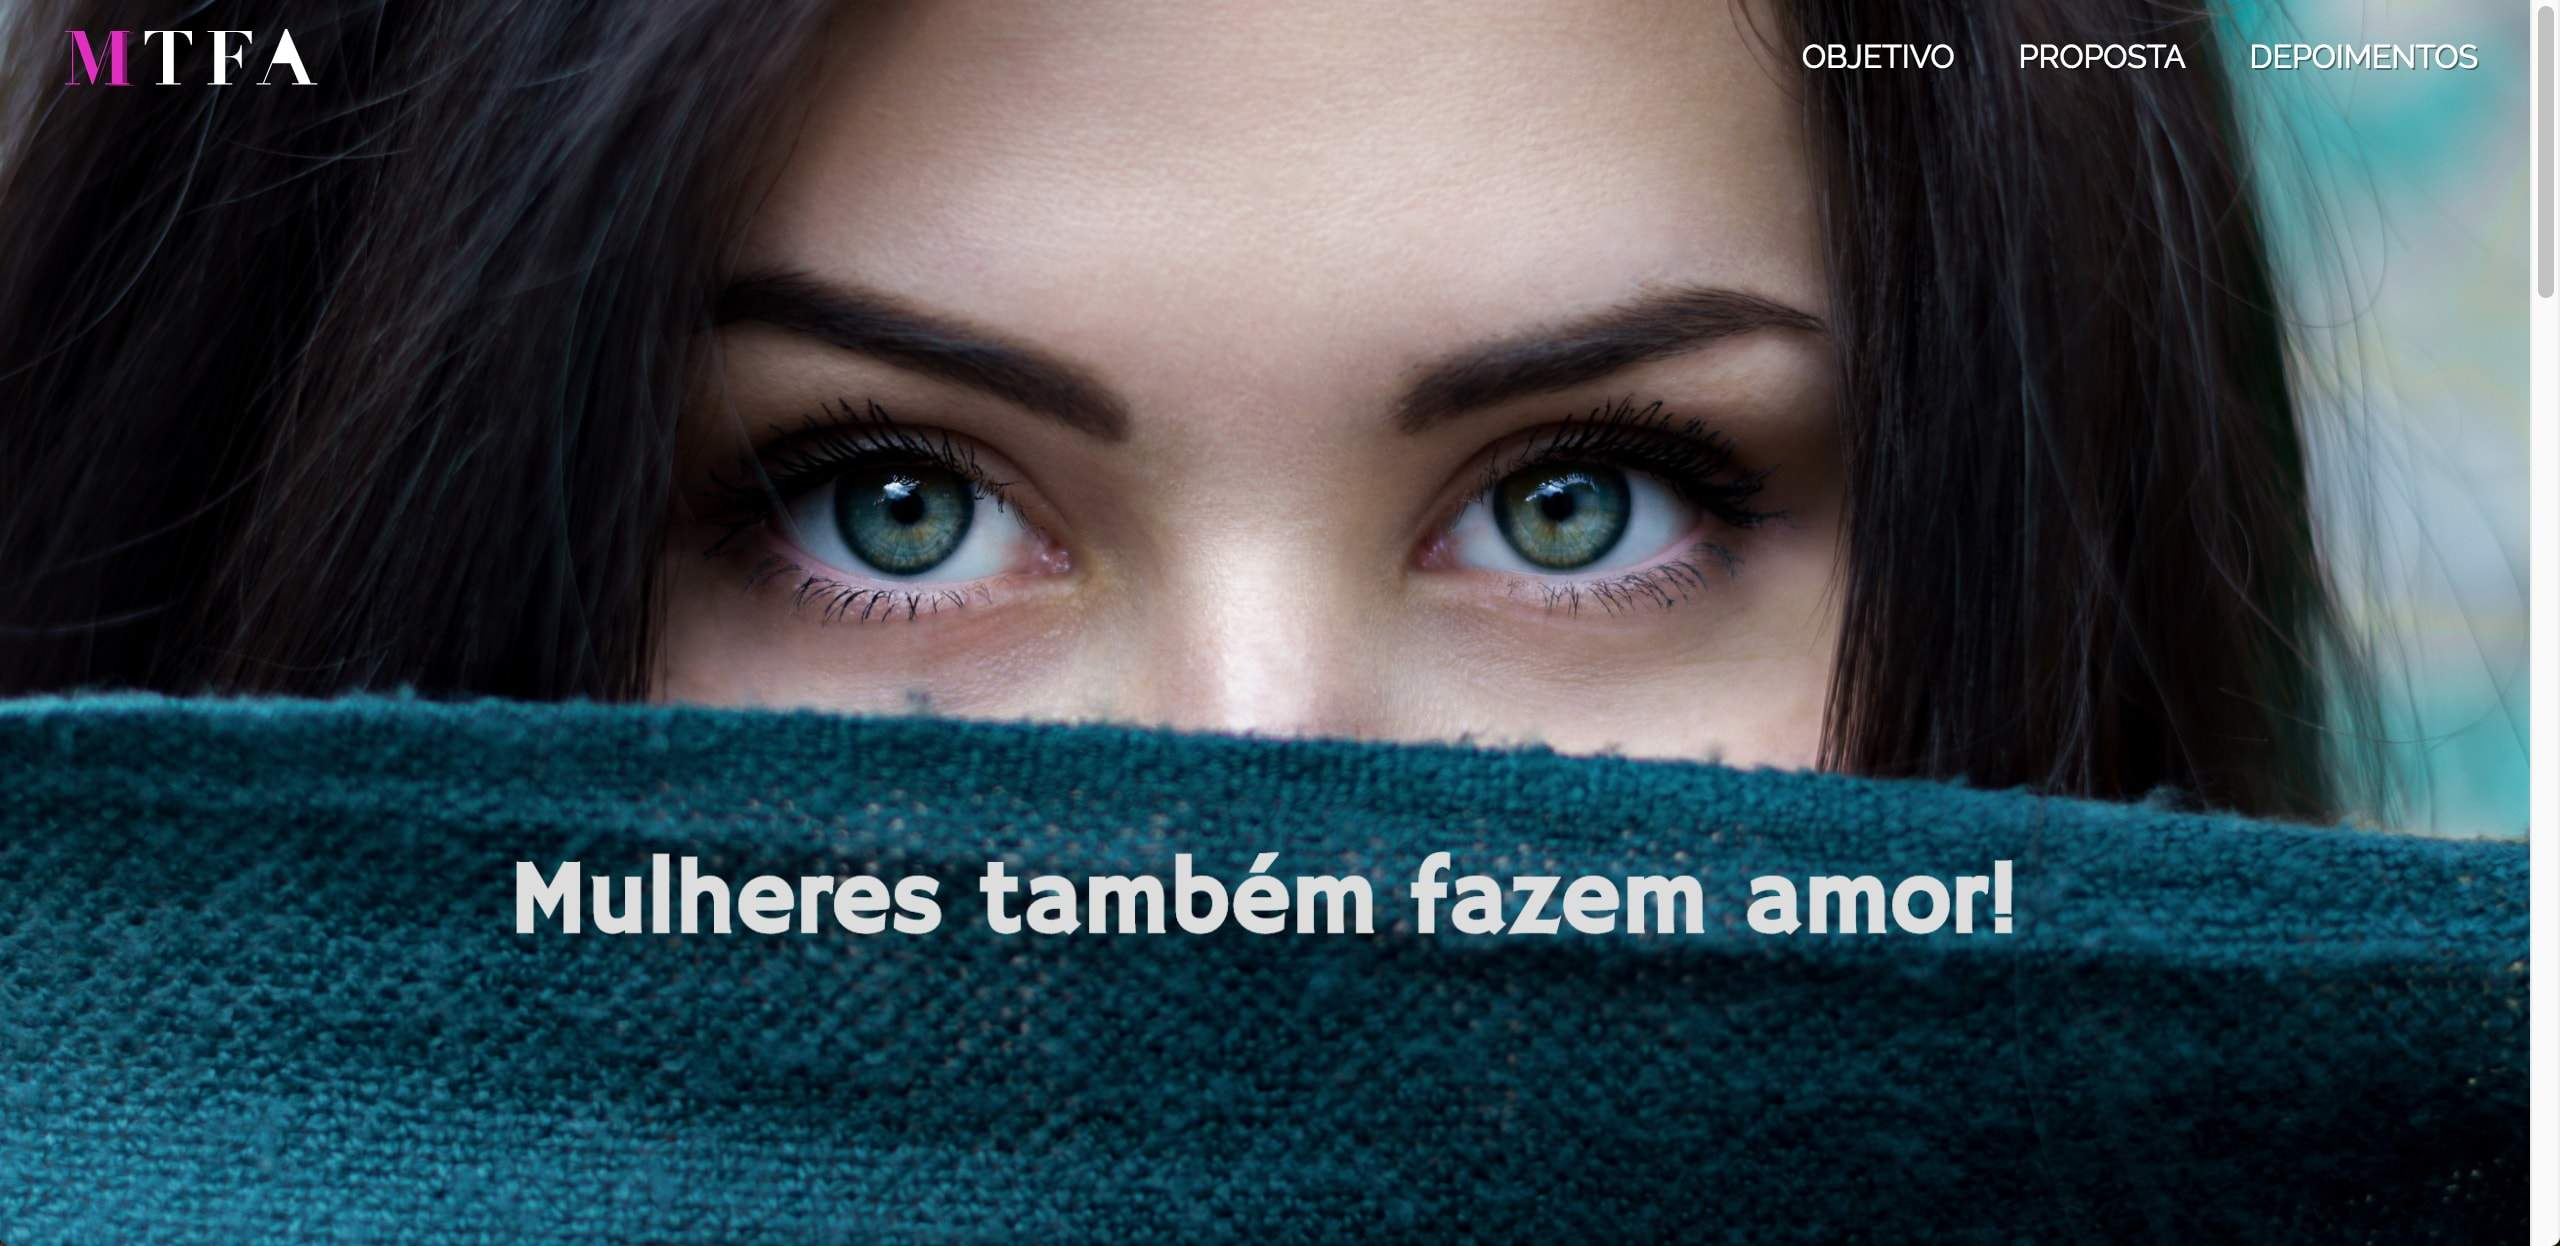
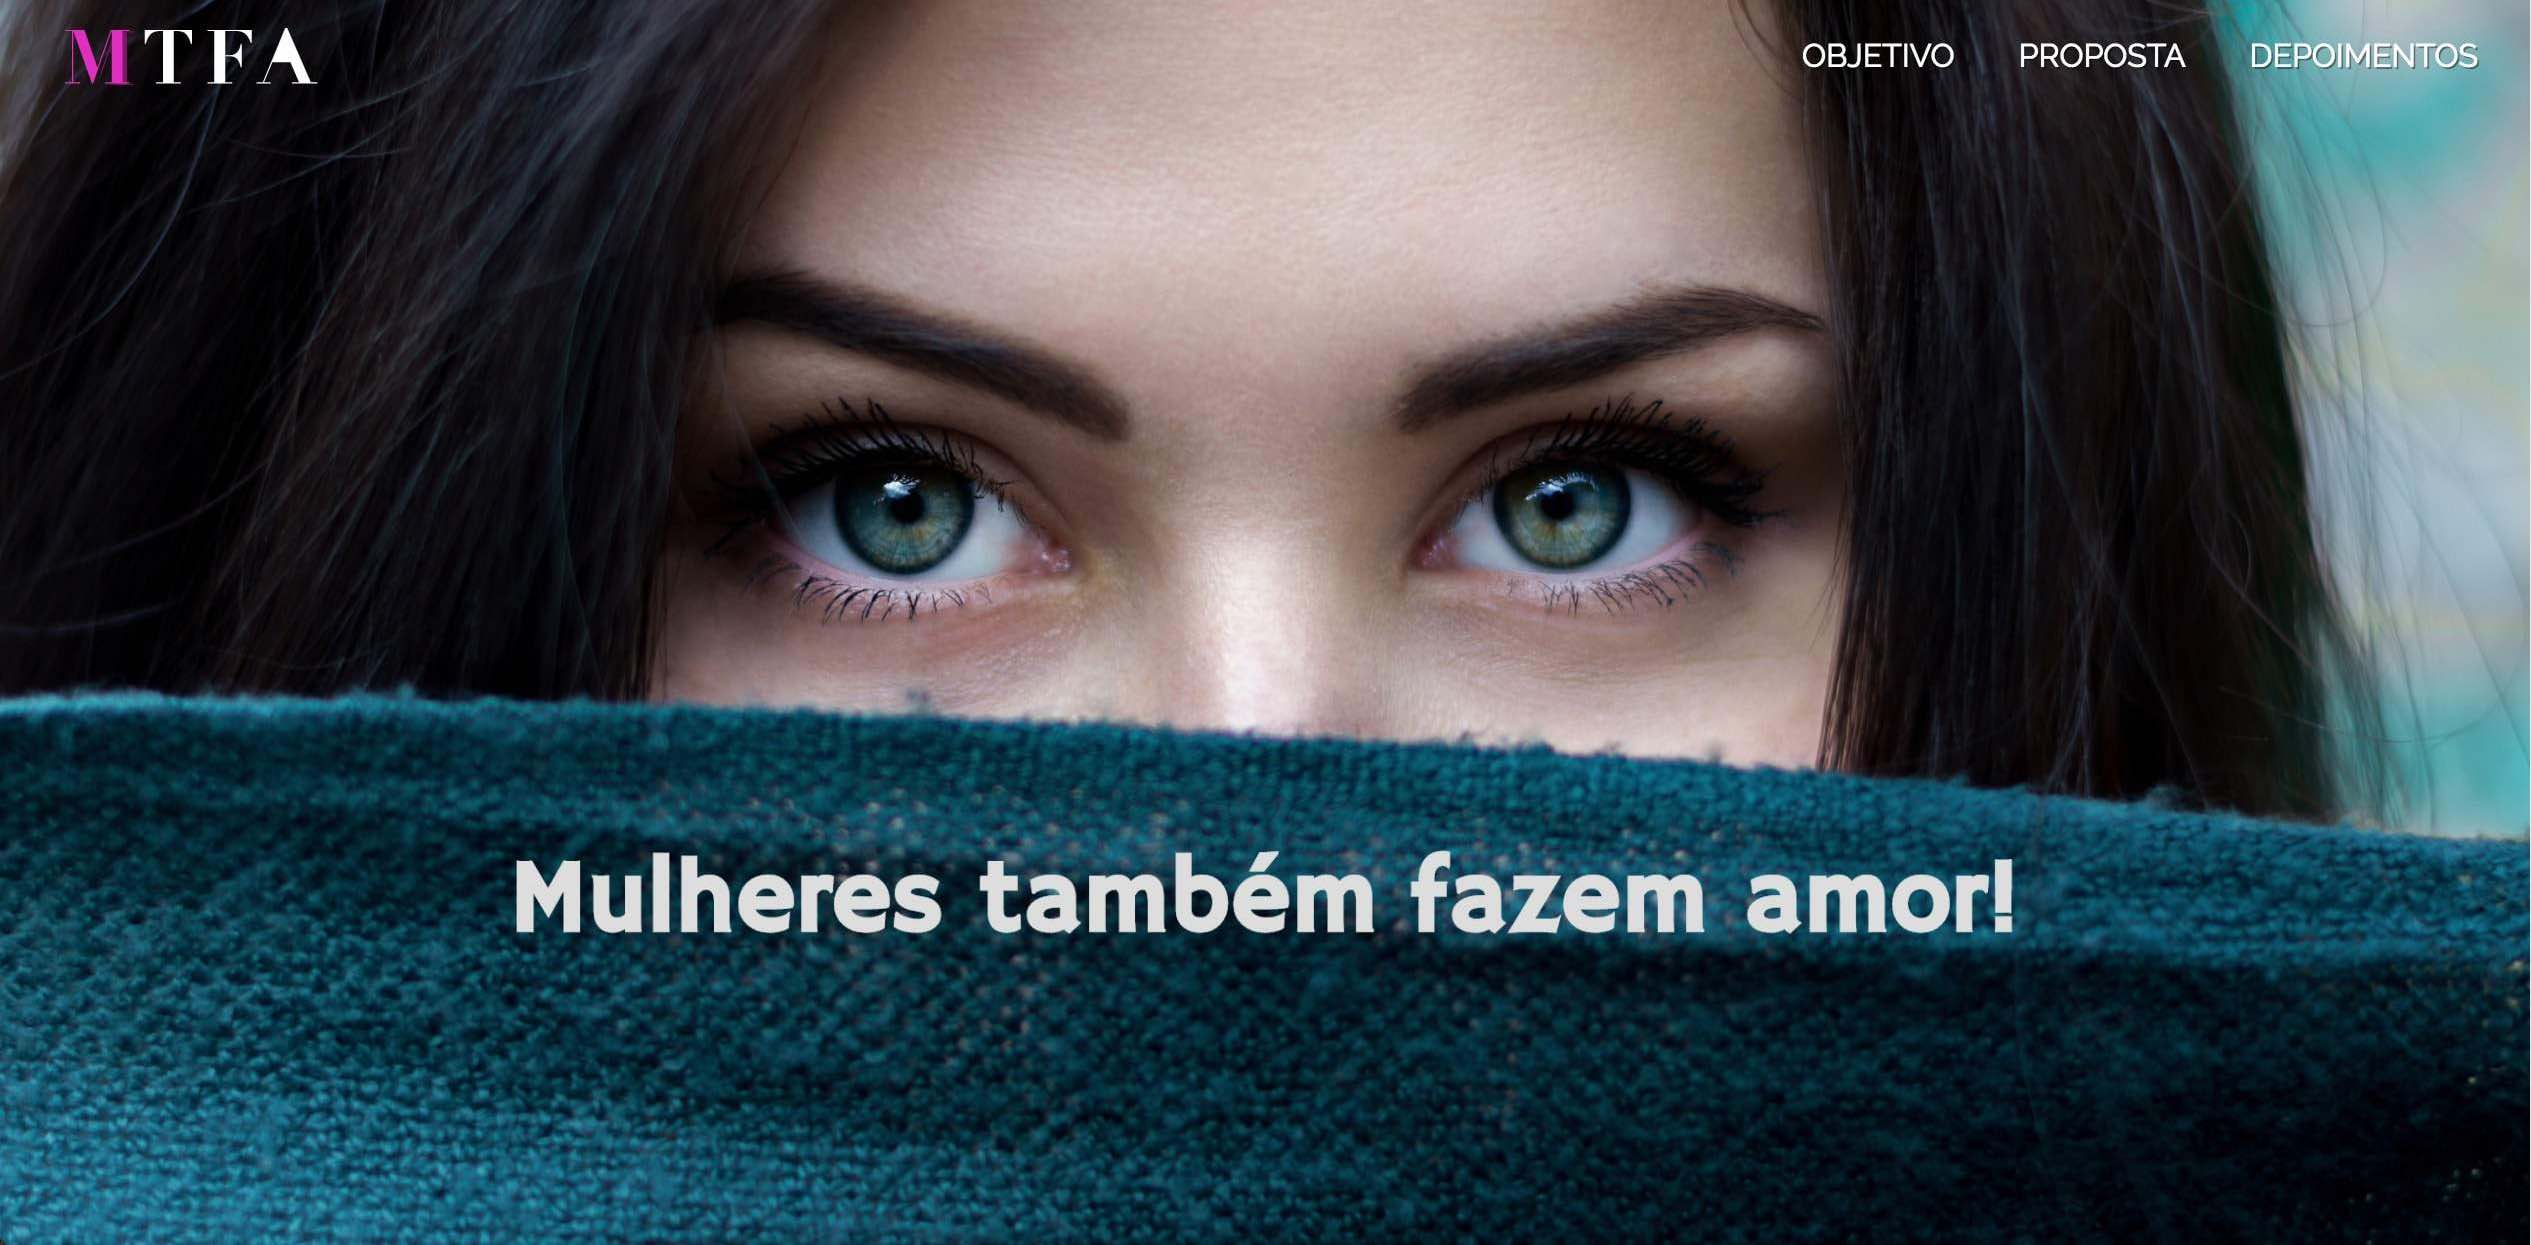
compressing images, and organizing projects and experience to be more responsive

diff --git a/src/components/Projects/index.tsx b/src/components/Projects/index.tsx
@@ -10,24 +10,34 @@ export default class Projects extends React.Component<IProps, {}> {
   public render() {
     return (
       <div className={s.projects}>
-        <div className={s.texts}>
-          <h1 className={s.title}>Projects realized</h1>
-          <p>
-            Projects carried out outside my work in Cubos for learning and
-            practice of the tools that I use. This site was also built on React.
-            All are available on GitHub.
-          </p>
-        </div>
+        <h1 className={s.title}>Latest projects working on</h1>
         <div className={s.images}>
-          <a href="https://calculadoradechurrasco.github.io/" target="blank">
-            <img src={calculadora} />
-          </a>
-          <a
-            href="https://larissavarjao.github.io/mulherestambemfazemamor/"
-            target="blank"
-          >
-            <img src={mulheres} />
-          </a>
+          <div className={s.project}>
+            <a href="https://calculadoradechurrasco.github.io/" target="blank">
+              <img src={calculadora} />
+            </a>
+            <p>
+              It's a site for calculating meats, chicken and garlic buns for a
+              barbecue, soda and drinks for an event and pizzas. Based on the
+              amount of people and children that will attend the event. This
+              projects was also builded in Rect and it's available on Github.
+            </p>
+          </div>
+          <div className={s.project}>
+            <a
+              href="https://larissavarjao.github.io/mulherestambemfazemamor/"
+              target="blank"
+            >
+              <img src={mulheres} />
+            </a>
+            <p>
+              Mulheres Também Fazem Amor (Women Also Make Love) is a movement
+              that promotes actions to transform the mentality, creating ways to
+              promote gender equality, sexual freedom and the protection of
+              women. Project conceived by Carolina Costa, with development of
+              the site realized by Larissa Varjão.
+            </p>
+          </div>
         </div>
       </div>
     );

diff --git a/src/components/Projects/style.scss b/src/components/Projects/style.scss
@@ -2,19 +2,20 @@
 
 .projects {
   width: 100%;
-  height: 90vh;
-  @include flex(row, space-around, center);
+  background-color: $light;
+  @include flex(column, center, center);
+  padding-bottom: 2rem;
+
+  .title {
+    @extend .titleMain;
+    margin: 2rem;
+  }
 
   .texts {
     @include flex(column, center, center);
     width: 60%;
     height: 100%;
     padding: 0 4rem;
-
-    .title {
-      @extend .titleMain;
-      margin: 0;
-    }
 
     p {
       font-size: 1.3rem;
@@ -24,15 +25,27 @@
   }
 
   .images {
-    @include flex(column, space-around, center);
-    width: 40%;
+    @include flex(row, space-around, flex-start);
+    flex-wrap: wrap;
+    width: 100%;
     height: 100%;
 
-    img {
-      width: 300px;
-      height: 200px;
-      object-fit: cover;
-      border-radius: 5px;
+    .project {
+      width: 50%;
+      img {
+        width: calc(100vw / 2 - 7rem);
+        height: 250px;
+        object-fit: cover;
+        border-radius: 5px;
+        margin: 0 2rem;
+      }
+
+      p {
+        font-weight: 200;
+        font-size: 1.2rem;
+        padding: 0 2rem;
+        color: $coffe;
+      }
     }
   }
 }
@@ -56,8 +69,16 @@
       }
     }
     .images {
-      img {
-        margin: 10px 0;
+      @include flex(column, center, center);
+
+      .project {
+        @include flex(row, center, center);
+
+        img {
+          width: 300px;
+          height: 200px;
+          margin: 10px;
+        }
       }
     }
   }

diff --git a/src/containers/Home/index.tsx b/src/containers/Home/index.tsx
@@ -5,7 +5,7 @@ import ScrollUpButton from 'react-scroll-up-button';
 
 import Cover from '../../components/Cover';
 import Header from '../../components/Header';
-import Abstract from '../../components/Abstract';
+import Education from '../../components/Education';
 import Skills from '../../components/Skills';
 import Experience from '../../components/Experience';
 import Projects from '../../components/Projects';
@@ -25,10 +25,10 @@ export default class Home extends React.Component<IProps, {}> {
       <div className={s.container}>
         <Header />
         <Cover />
-        <Abstract />
+        <Projects />
         <Skills />
         <Experience />
-        <Projects />
+        <Education />
         <Contact />
         <Footer />
         <ScrollUpButton TransitionBtnPosition={500} />

diff --git a/src/components/Cover/index.tsx b/src/components/Cover/index.tsx
@@ -4,6 +4,7 @@ const s = require('./style.scss');
 const facebook = require('../../assets/img/svgs/facebook.svg');
 const linkedin = require('../../assets/img/svgs/linkedin.svg');
 const github = require('../../assets/img/svgs/github.svg');
+const me = require('../../assets/img/cover/me.png');
 
 interface IProps {
   language?: string;
@@ -16,6 +17,7 @@ export default class Cover extends React.Component<IProps, {}> {
         <div className={s.background} />
         <div className={s.coverImg}>
           <div className={s.info}>
+            <img className={s.me} src={me} />
             <h1>Larissa Varjão</h1>
             <h2>Front-End Developer</h2>
             <div className={s.buttons}>

diff --git a/src/components/Cover/style.scss b/src/components/Cover/style.scss
@@ -24,7 +24,21 @@
     .info {
       @include flex(column, center, center);
       transition: 2s;
-      margin: 8rem;
+      margin: 0 8rem;
+
+      .me {
+        width: 150px;
+        height: 150px;
+        border-radius: 50%;
+        border: 8px solid $green;
+        transition: 2s;
+
+        &:hover {
+          width: 250px;
+          height: 250px;
+          transition: 2s;
+        }
+      }
 
       h1,
       h2 {

diff --git a/src/components/Experience/style.scss b/src/components/Experience/style.scss
@@ -3,8 +3,8 @@
 .experience {
   @include flex(column, center, center);
   width: 100%;
-  height: 90vh;
   background-color: $light;
+  padding: 0 0 2rem 0;
 
   .title {
     @extend .titleMain;
@@ -30,7 +30,7 @@
           }
           p {
             font-weight: 200;
-            font-size: 20px;
+            font-size: 1.2rem;
             color: $coffe;
             margin: 5px 0;
           }

diff --git a/src/components/Experience/index.tsx b/src/components/Experience/index.tsx
@@ -24,7 +24,7 @@ const companys = [
   {
     name: 'PwC',
     text:
-      'During the period from July 2015 to March 2017 I worked as an assistant in the auditing part of PwC, one of the big four companies.',
+      'During the period from July 2015 to March 2017 I worked as an assistant in the auditing part of PwC, one of four biggest companies of the market.',
     url: pwc
   }
 ];

diff --git a/src/components/Header/index.tsx b/src/components/Header/index.tsx
@@ -13,7 +13,7 @@ export default class Header extends React.Component<IProps, {}> {
     return (
       <div className={s.header}>
         <div className={s.touch}>
-          <h3>Hire me for a freelance project!</h3>
+          <h3>Available to freelancer projects!</h3>
         </div>
         <div className={s.contact}>
           <img src={Gmail} />

diff --git a/src/components/Education/index.tsx b/src/components/Education/index.tsx
@@ -4,7 +4,7 @@ const s = require('./style.scss');
 
 interface IProps {}
 
-export default class Abstract extends React.Component<IProps, {}> {
+export default class Education extends React.Component<IProps, {}> {
   public render() {
     return (
       <div className={s.abstract}>

diff --git a/src/components/Education/style.scss b/src/components/Education/style.scss
@@ -4,7 +4,6 @@
   width: calc(100% - 40px);
   padding: 20px;
   height: 400px;
-  background-color: $light;
   @include flex(row, space-between, center);
 
   .left {
